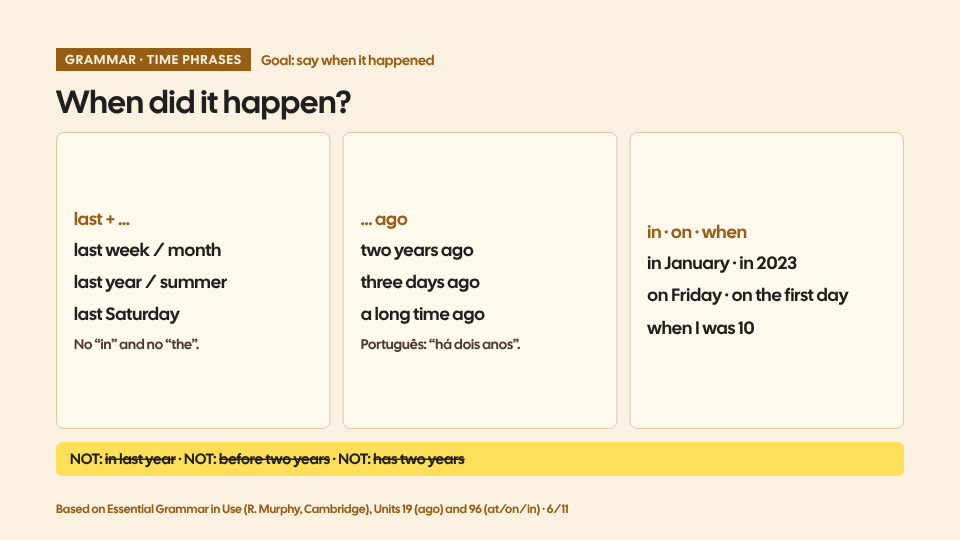
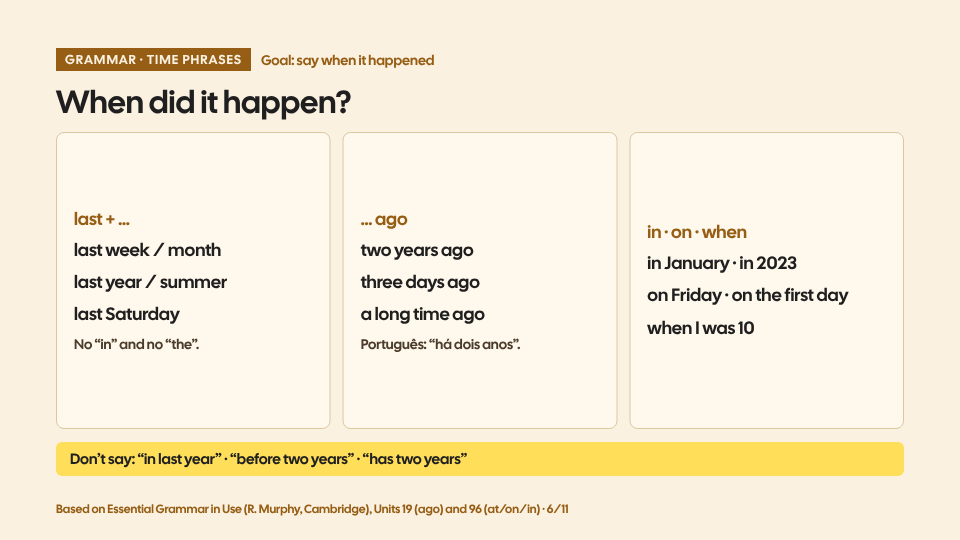
Aula 3: ajuste no slide de expressões de tempo
Claude-Session: https://claude.ai/code/session_01RpNkWjpcn8QrQj5QnjJZG7

Changed region(s): [[0.0625, 0.8296, 0.5, 0.8593]]

diff --git a/catwise-material/a2/a2-aula-03.html b/catwise-material/a2/a2-aula-03.html
@@ -74,7 +74,7 @@ footer{text-align:center;font-size:14px;color:#DCC6A0;padding:0 16px 32px}
 </section>
 </div></figure>
 <figure class="sl" aria-label="Slide 6 de 11"><div class="fr"><section data-id="rules" style="background:#FBF1E1;color:#1F1F1F;font-family:'Cal Sans', Arial, sans-serif;padding:96px 112px 128px;display:flex;flex-direction:column;gap:26px;align-items:flex-start">
-<div style="display:flex;gap:20px;align-items:center"><p style="font-size:26px;background:#955E14;color:#FBF1E1;padding:6px 18px;letter-spacing:2px">GRAMMAR · TIME PHRASES</p><p style="font-size:28px;color:#955E14">Goal: say when it happened</p></div><h2 style="font-size:64px;font-weight:400;line-height:1.1">When did it happen?</h2><div style="display:grid;grid-template-columns:1fr 1fr 1fr;gap:24px;align-self:stretch;flex:1;max-height:600px"><div style="display:flex;flex-direction:column;justify-content:center;gap:16px;background:#FFF8EC;border:2px solid #DCC6A0;border-radius:16px;padding:28px 34px"><h3 style="font-size:36px;font-weight:400;color:#955E14;line-height:1.2">last + …</h3><p style="font-size:36px;line-height:1.35">last week / month</p><p style="font-size:36px;line-height:1.35">last year / summer</p><p style="font-size:36px;line-height:1.35">last Saturday</p><p style="font-size:28px;line-height:1.35;color:#4A3B2A">No “in” and no “the”.</p></div><div style="display:flex;flex-direction:column;justify-content:center;gap:16px;background:#FFF8EC;border:2px solid #DCC6A0;border-radius:16px;padding:28px 34px"><h3 style="font-size:36px;font-weight:400;color:#955E14;line-height:1.2">… ago</h3><p style="font-size:36px;line-height:1.35">two years ago</p><p style="font-size:36px;line-height:1.35">three days ago</p><p style="font-size:36px;line-height:1.35">a long time ago</p><p style="font-size:28px;line-height:1.35;color:#4A3B2A">Português: “há dois anos”.</p></div><div style="display:flex;flex-direction:column;justify-content:center;gap:16px;background:#FFF8EC;border:2px solid #DCC6A0;border-radius:16px;padding:28px 34px"><h3 style="font-size:36px;font-weight:400;color:#955E14;line-height:1.2">in · on · when</h3><p style="font-size:36px;line-height:1.35">in January · in 2023</p><p style="font-size:36px;line-height:1.35">on Friday · on the first day</p><p style="font-size:36px;line-height:1.35">when I was 10</p></div></div><div style="background:#FFDE59;border-radius:12px;padding:14px 28px;align-self:stretch"><p style="font-size:30px;line-height:1.35">NOT: <s>in last year</s> · NOT: <s>before two years</s> · NOT: <s>has two years</s></p></div>
+<div style="display:flex;gap:20px;align-items:center"><p style="font-size:26px;background:#955E14;color:#FBF1E1;padding:6px 18px;letter-spacing:2px">GRAMMAR · TIME PHRASES</p><p style="font-size:28px;color:#955E14">Goal: say when it happened</p></div><h2 style="font-size:64px;font-weight:400;line-height:1.1">When did it happen?</h2><div style="display:grid;grid-template-columns:1fr 1fr 1fr;gap:24px;align-self:stretch;flex:1;max-height:600px"><div style="display:flex;flex-direction:column;justify-content:center;gap:16px;background:#FFF8EC;border:2px solid #DCC6A0;border-radius:16px;padding:28px 34px"><h3 style="font-size:36px;font-weight:400;color:#955E14;line-height:1.2">last + …</h3><p style="font-size:36px;line-height:1.35">last week / month</p><p style="font-size:36px;line-height:1.35">last year / summer</p><p style="font-size:36px;line-height:1.35">last Saturday</p><p style="font-size:28px;line-height:1.35;color:#4A3B2A">No “in” and no “the”.</p></div><div style="display:flex;flex-direction:column;justify-content:center;gap:16px;background:#FFF8EC;border:2px solid #DCC6A0;border-radius:16px;padding:28px 34px"><h3 style="font-size:36px;font-weight:400;color:#955E14;line-height:1.2">… ago</h3><p style="font-size:36px;line-height:1.35">two years ago</p><p style="font-size:36px;line-height:1.35">three days ago</p><p style="font-size:36px;line-height:1.35">a long time ago</p><p style="font-size:28px;line-height:1.35;color:#4A3B2A">Português: “há dois anos”.</p></div><div style="display:flex;flex-direction:column;justify-content:center;gap:16px;background:#FFF8EC;border:2px solid #DCC6A0;border-radius:16px;padding:28px 34px"><h3 style="font-size:36px;font-weight:400;color:#955E14;line-height:1.2">in · on · when</h3><p style="font-size:36px;line-height:1.35">in January · in 2023</p><p style="font-size:36px;line-height:1.35">on Friday · on the first day</p><p style="font-size:36px;line-height:1.35">when I was 10</p></div></div><div style="background:#FFDE59;border-radius:12px;padding:14px 28px;align-self:stretch"><p style="font-size:30px;line-height:1.35">Don’t say: “in last year” · “before two years” · “has two years”</p></div>
 <p style="position:absolute;left:112px;bottom:48px;width:1696px;font-size:24px;color:#955E14">Based on Essential Grammar in Use (R. Murphy, Cambridge), Units 19 (ago) and 96 (at/on/in) · 6/11</p>
 
 </section>
